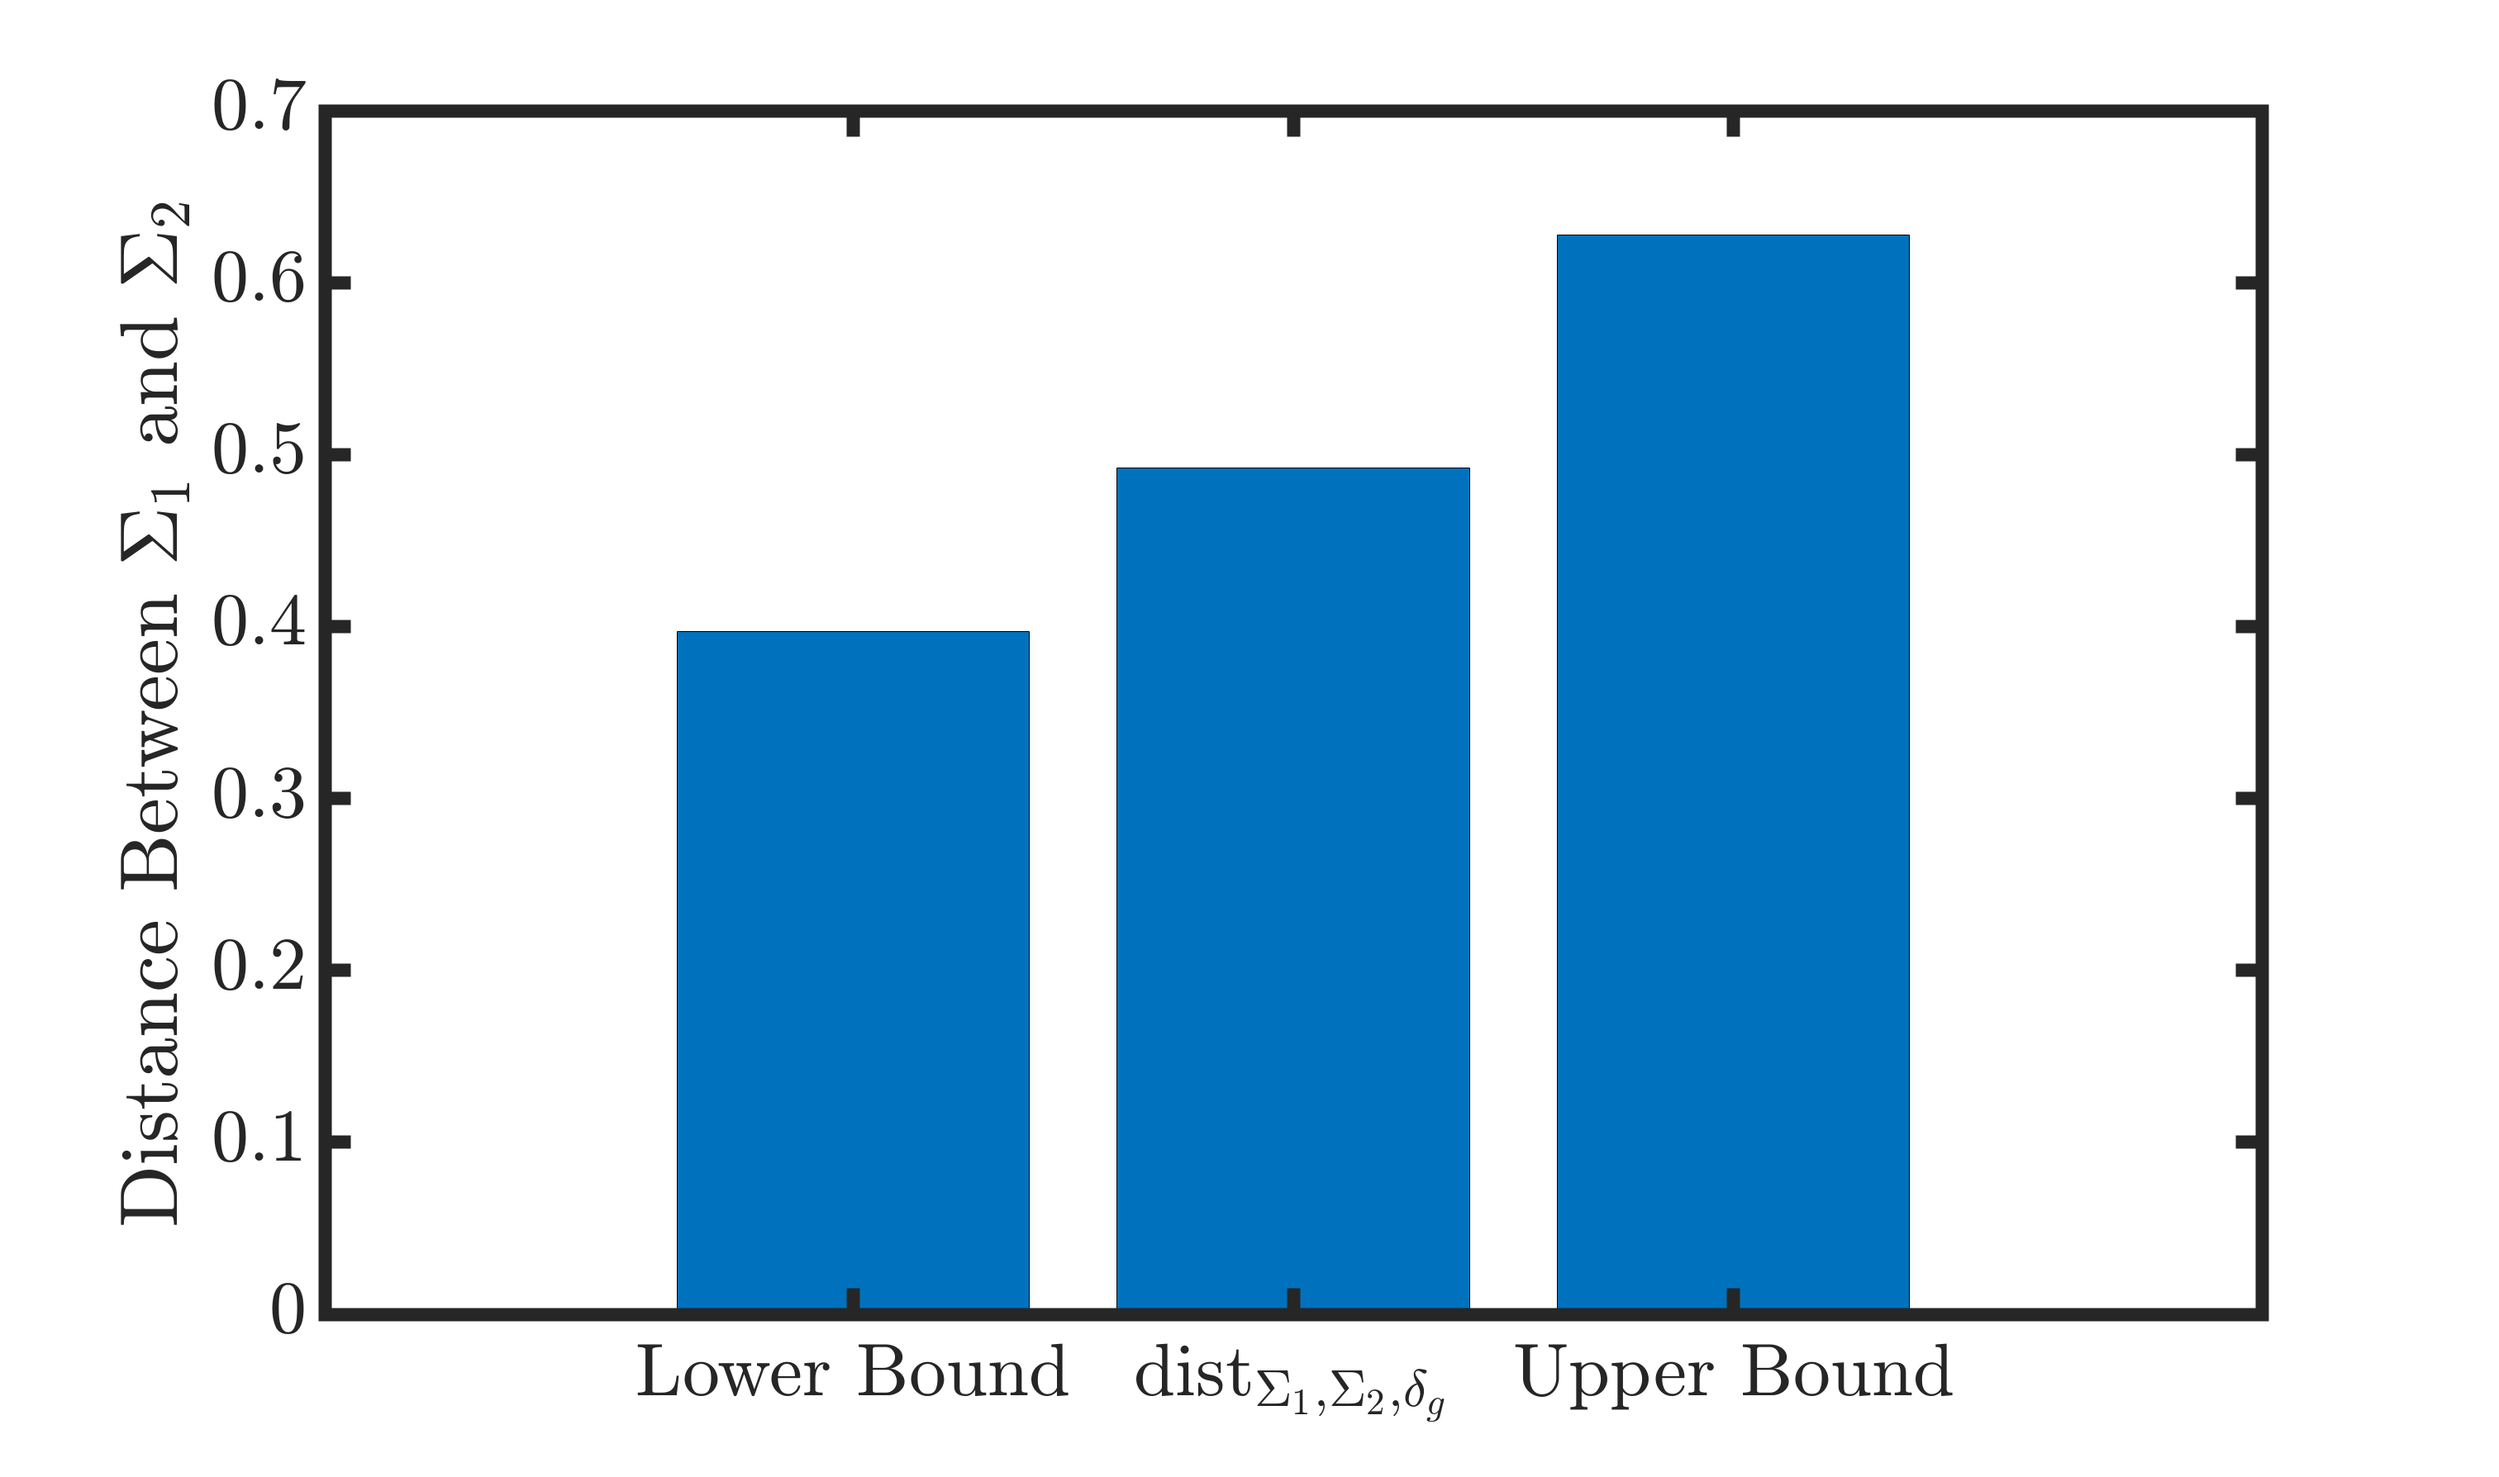
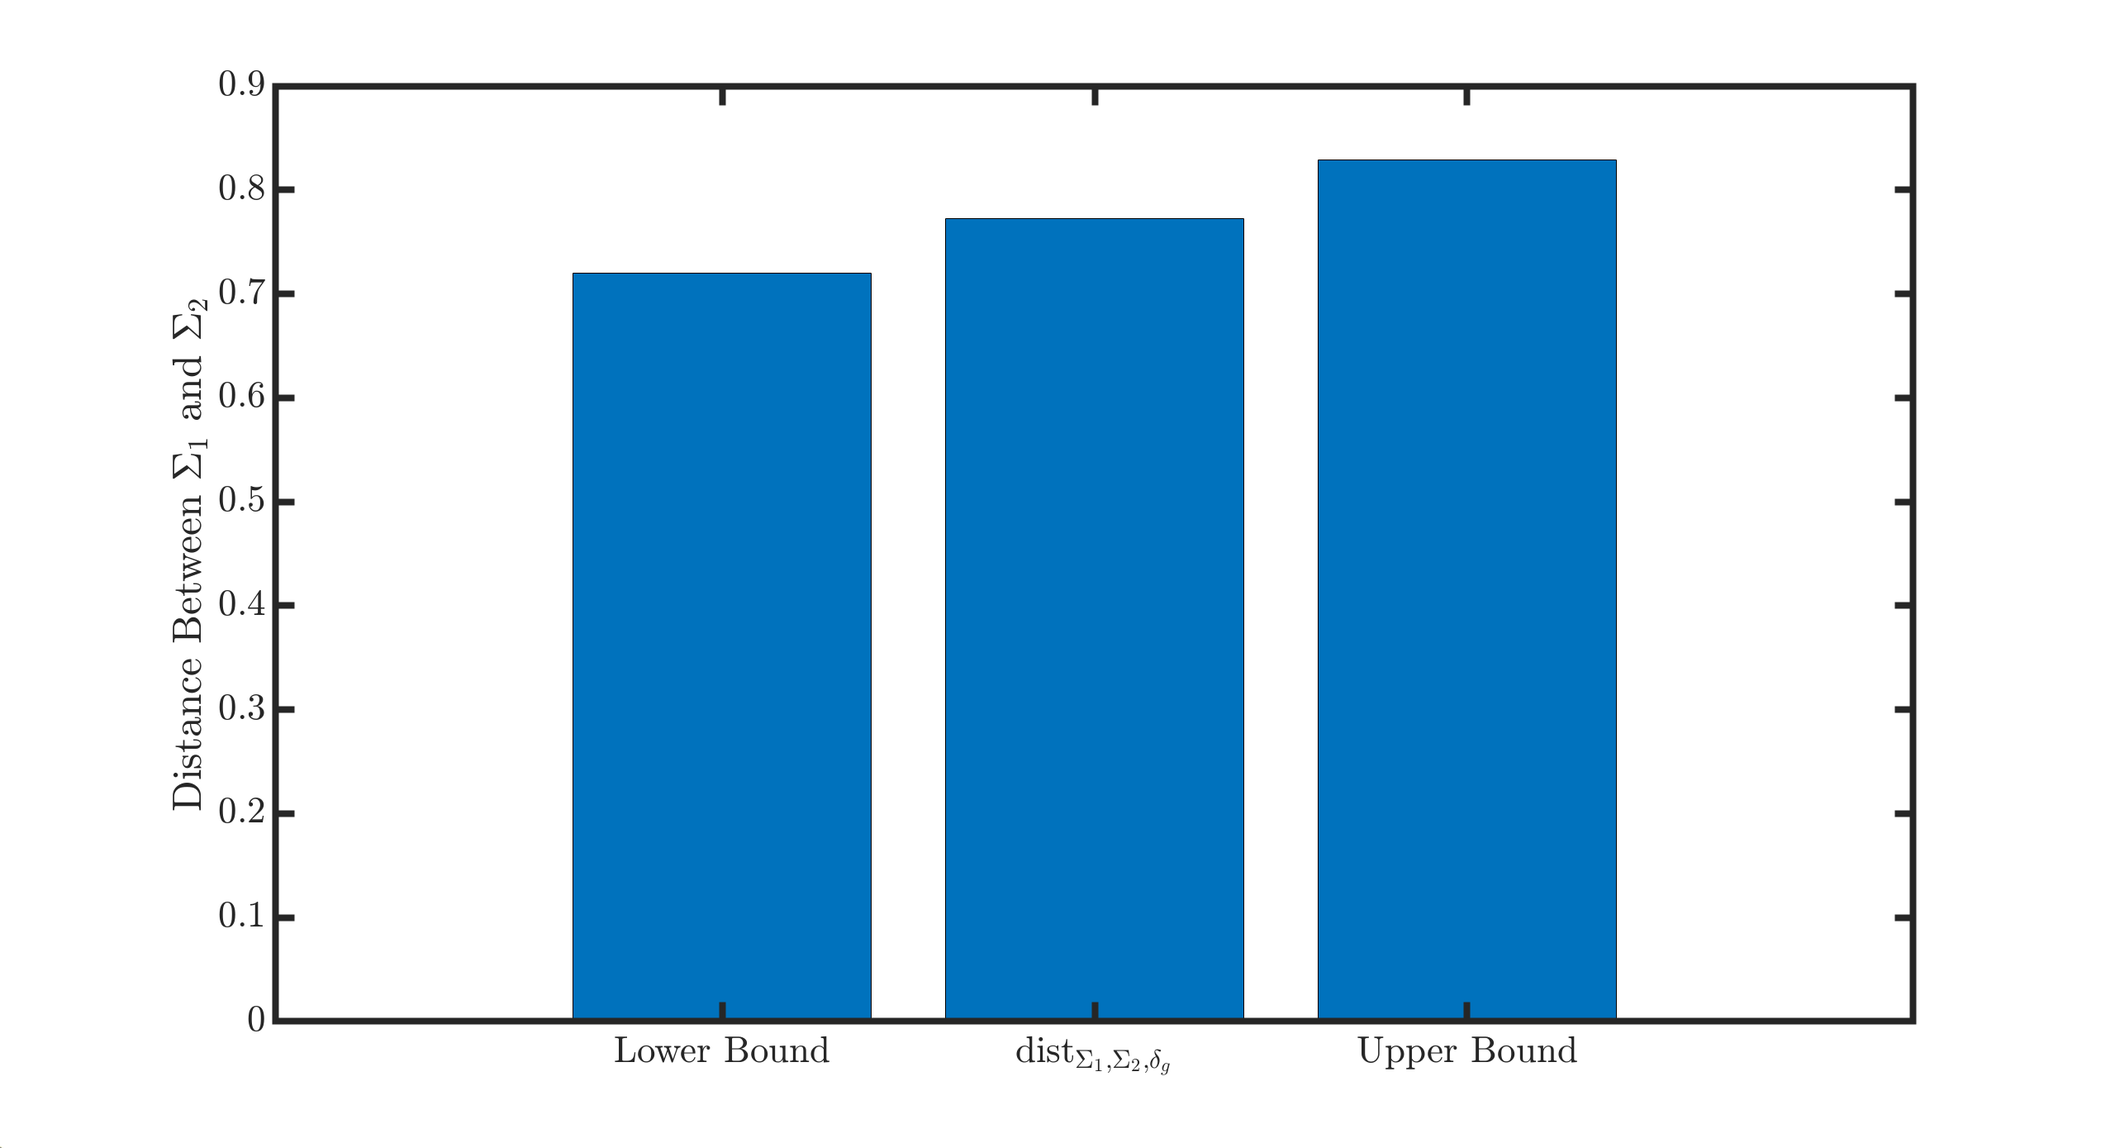
corrected errors in code

diff --git a/timeDomainSimulation.m b/timeDomainSimulation.m
@@ -36,7 +36,8 @@ B1_0 = [0; 1];
 C1_0 = [1 0];
 D1_0 = 0;
 
-A2_0 = [0 1; -1.5 -0.2];
+A2_0 = [-3.2178  1.2354;
+        -1.7812   -2.6507];
 B2_0 = [0; 1];
 C2_0 = [1 0];
 D2_0 = 0;
